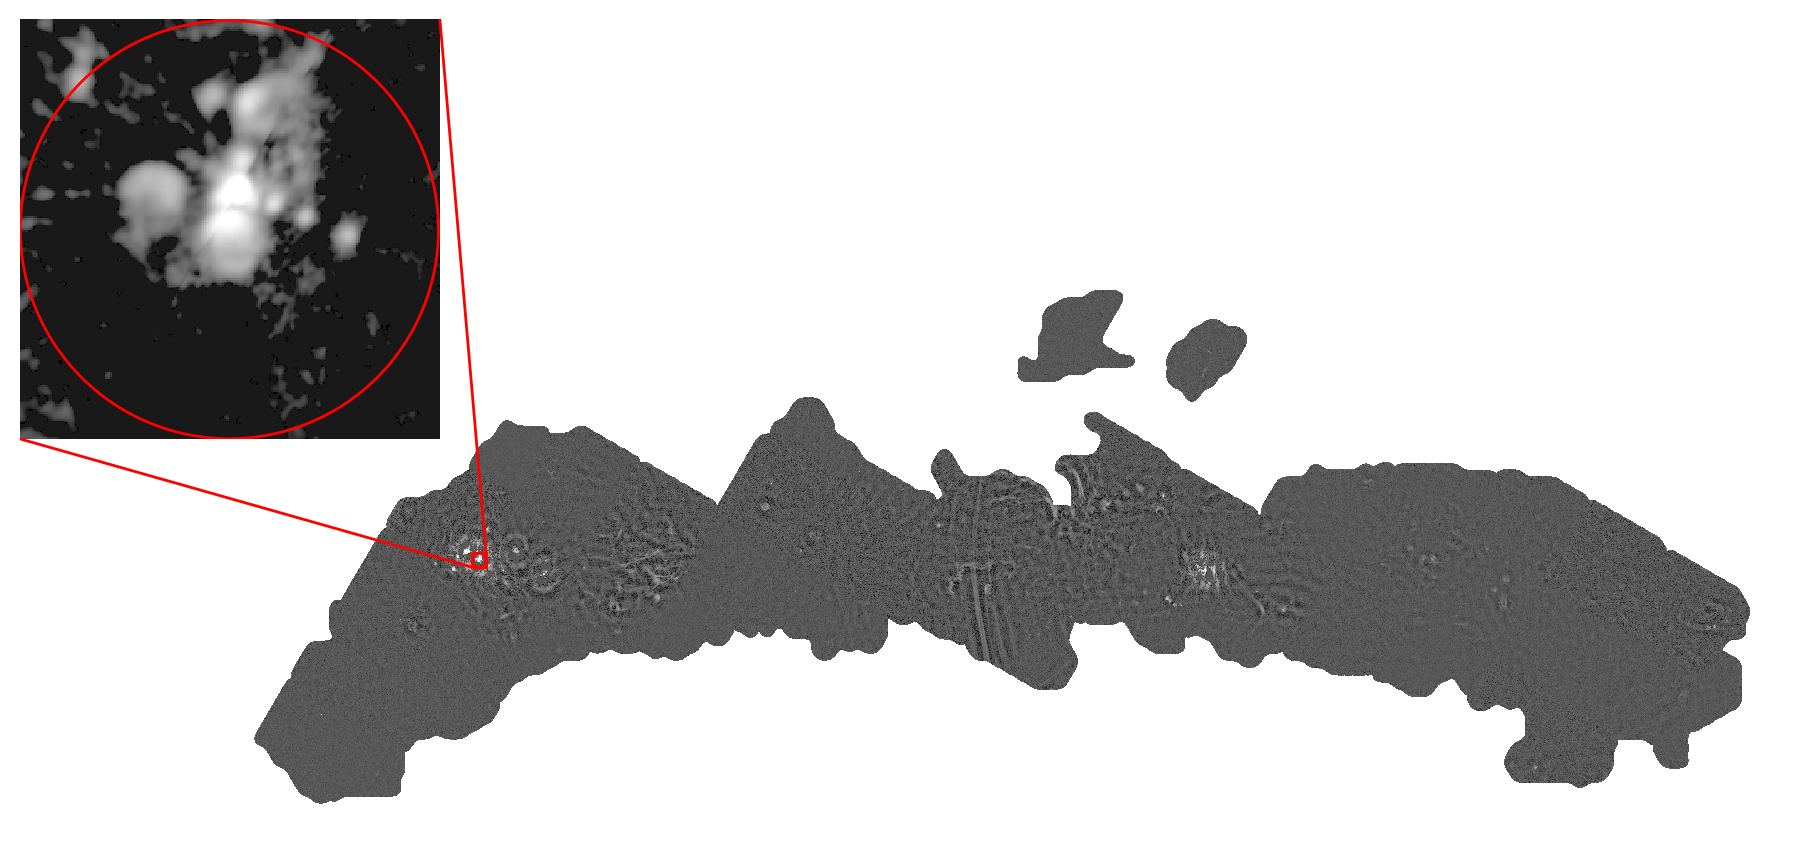
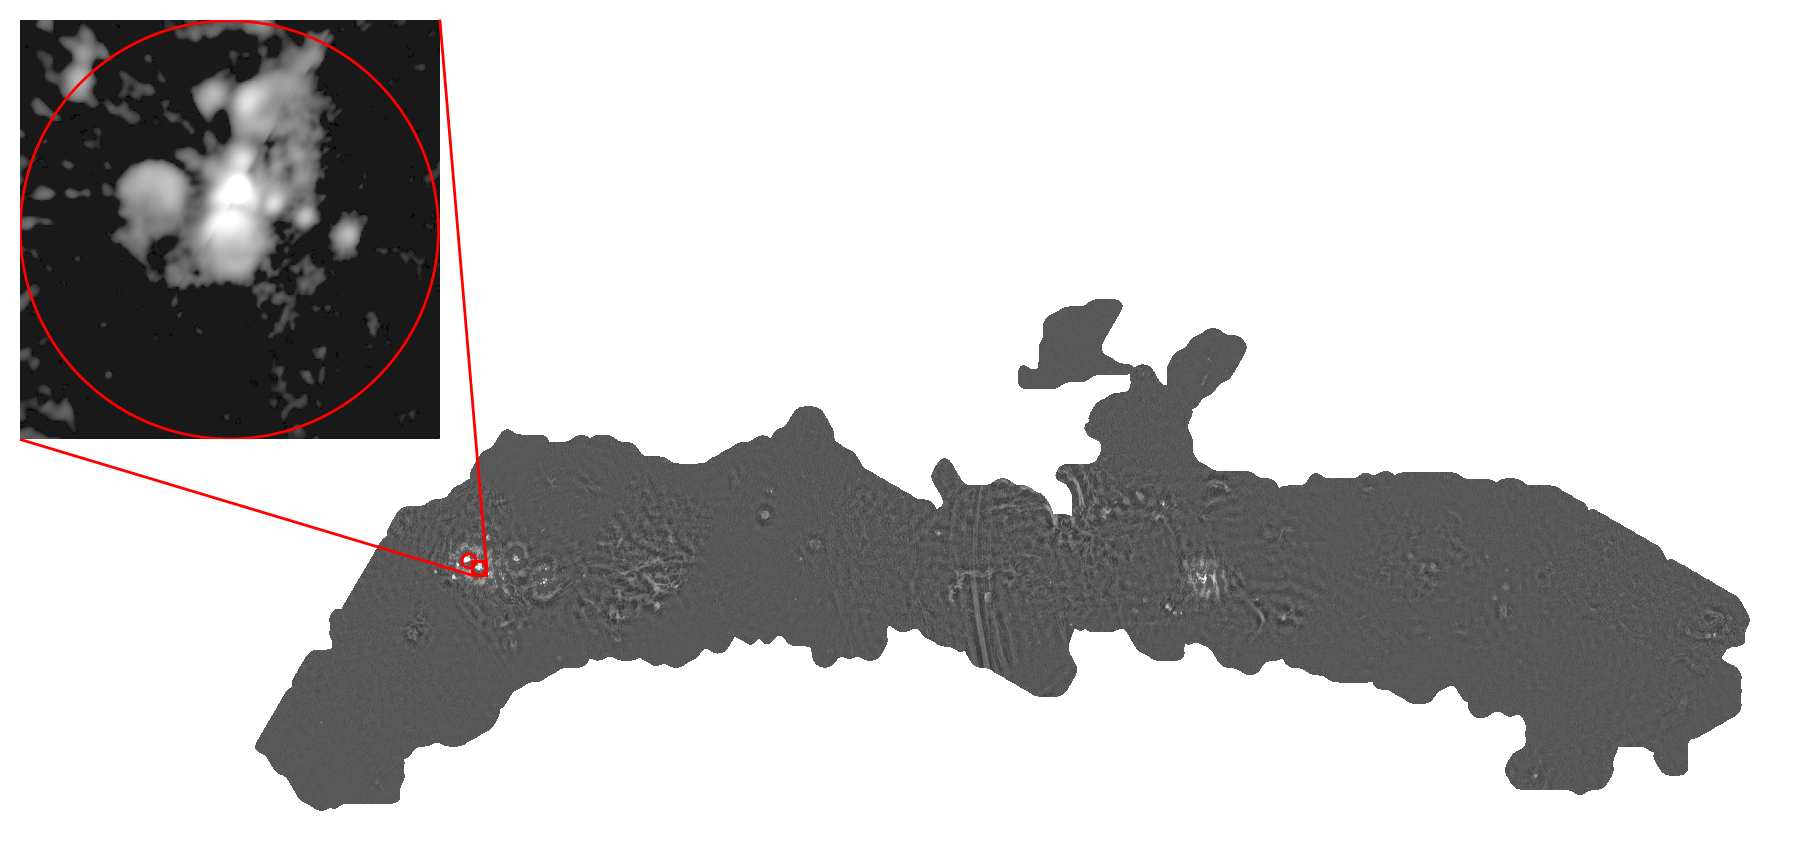
add some desmond figures

diff --git a/colloquium_Jan2024_UW.html b/colloquium_Jan2024_UW.html
@@ -86,10 +86,11 @@ pre- and proto-stellar objects at early phases.  Denser regions of our Galaxy,
 like its center, form more stars in clusters than do the outskirts where the Sun
 resides.  Core mass function measurements suggest that more intensely
 star-forming regions preferentially form high-mass stars.  However, the simplest
-models of core-to-star evolution fail.  Since stars grow through episodic accretion
-events while their envelopes continue to grow and interact, we have only snapshots
-of the star formation sequence.  I'll describe evidence of past dynamical events
-that we might hope to see in future time domain surveys.
+models of core-to-star evolution fail, and I'll show how some have been ruled
+out.  Since stars grow through episodic accretion events while their envelopes
+continue to grow and interact, we have only snapshots of the star formation
+sequence.  I'll describe evidence of past dynamical events that we might hope to
+see in future time domain surveys.
 
 
 
@@ -2157,31 +2158,32 @@ Star Formation:
         <div style="float:left; width:75%; margin-top:0%">
             <!--<img src="FrontiersAssets/cores_on_continuum_peak_DeepestSouth_zoomin.png" style="width:80%;">-->
             <!--<img src="FrontiersAssets/desmond_overview.png" style="width:99%;">-->
-            <img src="assets/Desmond/SgrB2DS_20221108.png" style="width:90%;">
+            <img src="assets/Desmond/pacman_sep2023revolution_refereecontours_nograd_contours_bolocam_zoomin_300dpi.png" style="width:90%;">
         </div>
-        <div style="float:left; width:25%;">
+        <div style="float:left; width:25%;" class=smaller>
             <img style="width: 70%; height: 70%" src="FrontiersAssets/DesmondHeadshot.png">
             <span class="smaller2" align=right style="position: relative; float: right;">
-                Desmond Jeff+ 2024:
+                <a href="https://arxiv.org/abs/2401.09749">Desmond Jeff+ 2024 <div class=smaller>(on arXiv last week)</div></a>
                 <br><span style='color:darkgreen'> Ten hot cores in Sgr B2 DS</span>
                 <br> T<sub>G</sub> ~ 200-500 K
                 <br> M ~ 200 - 2900 M<sub>&odot;</sub>
                 <br> ~5% of cores are hot cores
             </span>
         </div>
+        <div style="position: absolute; bottom:10px; right:-10px;">
+            <img width=350px src="assets/cmz/aces_mark_sgrb2ds.png">
+        </div>
         <aside class=notes>
             <ul>
-                <li> Desmond is a 4th-year PhD student
+                <li> Desmond is a 5th-year PhD student
                 <li> Focus on hot core temperature measurement &amp; YSO identification
             </ul>
         </aside>
     </section>
     <section id=desmond_ds_hotcores>
-        <div style='float:left'> Sgr B2 DS: Unclustered SF in the CMZ </div>
-        <div style="float:left; width:75%; margin-top:10%">
-            <!--<img src="FrontiersAssets/cores_on_continuum_peak_DeepestSouth_zoomin.png" style="width:80%;">-->
-            <!--<img src="FrontiersAssets/desmond_overview.png" style="width:99%;">-->
-            <img src="assets/DesmondJeff_SgrB2DS_20211203.png" style="width:99%;">
+        <div style='float:left'> Sgr B2 DS: More massive cores than the Disk </div>
+        <div style="float:left; width:75%; margin-top:00%">
+            <img src="assets/Desmond/pacman_sep2023revolution_tempvsmass.png" style="width:99%;">
         </div>
         <div style="float:left; width:25%;">
             <img style="width: 70%; height: 70%" src="FrontiersAssets/DesmondHeadshot.png">
@@ -2194,12 +2196,6 @@ Star Formation:
                 <div style='align:left' class=smaller> Soon: ~100 &rightarrow; ~400 pre/protostellar cores</div>
             </span>
         </div>
-        <aside class=notes>
-            <ul>
-                <li> Desmond is a 4th-year PhD student
-                <li> Focus on hot core temperature measurement &amp; YSO identification
-            </ul>
-        </aside>
     </section>
 </section>
 
